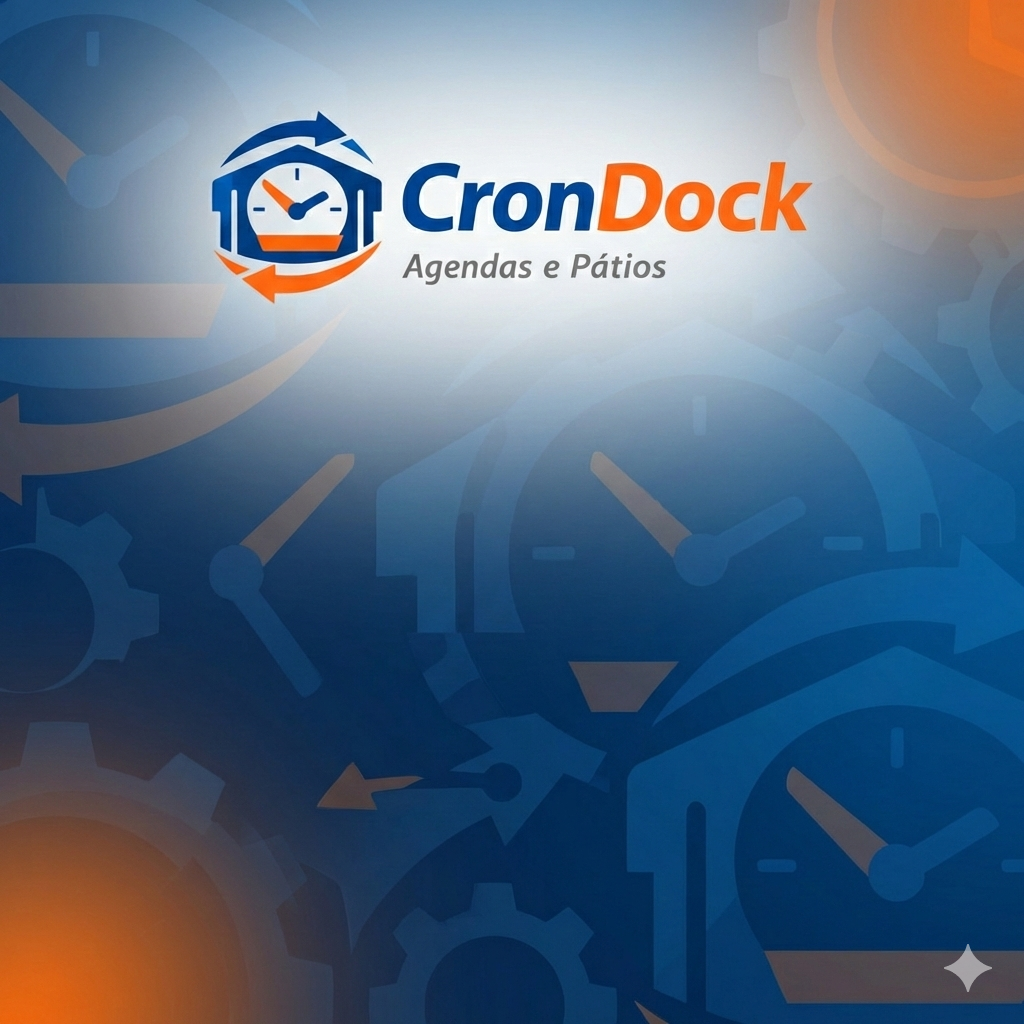
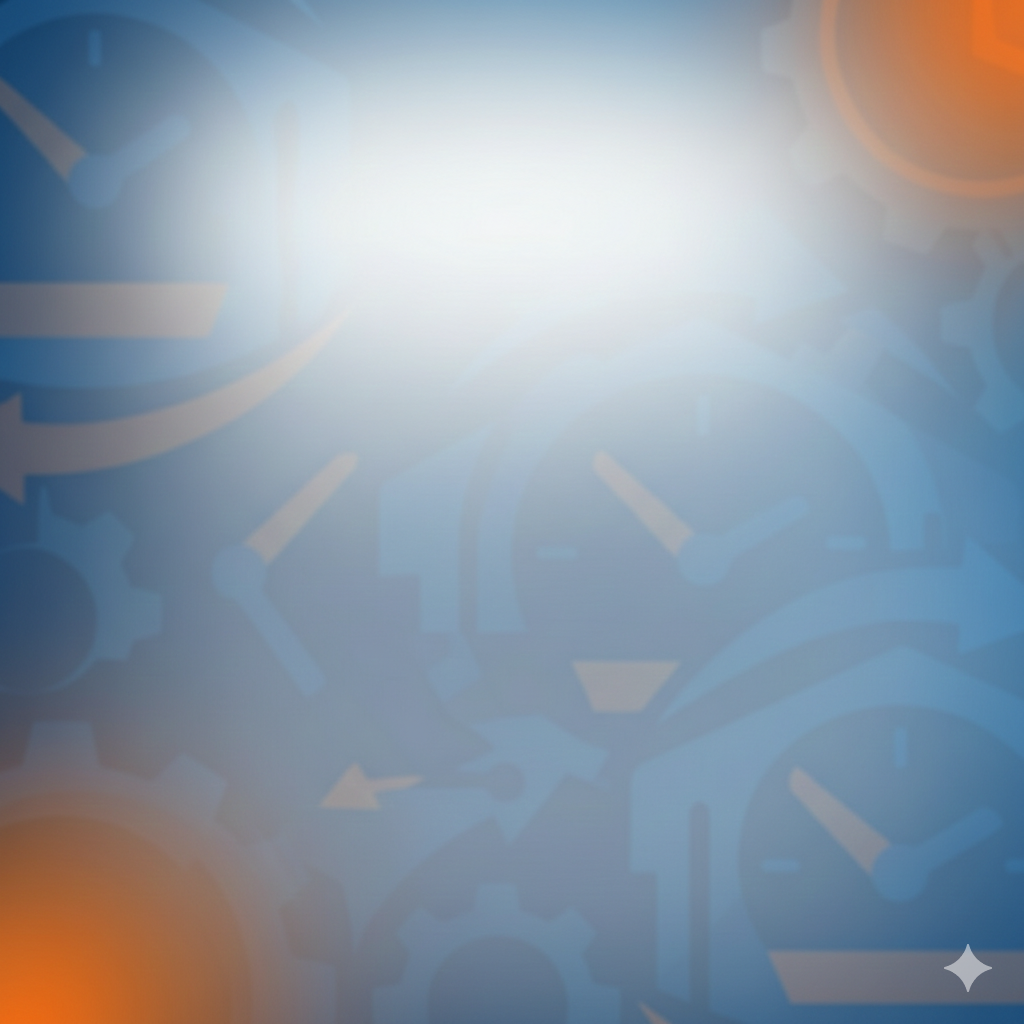
Tela de login

diff --git a/app/(auth)/login/page.tsx b/app/(auth)/login/page.tsx
@@ -2,18 +2,30 @@ import { LoginForm } from "@/components/auth/login-form"
 
 export default function LoginPage() {
   return (
-    <div className="relative flex min-h-dvh w-full items-center justify-center overflow-hidden p-4 sm:p-6">
+    <div className="relative flex min-h-dvh w-full items-start justify-center overflow-hidden p-4 sm:p-6">
       <div
-        className="absolute inset-0 bg-cover bg-top bg-no-repeat"
+        className="absolute inset-0 bg-cover bg-center bg-no-repeat"
         style={{
           backgroundImage: `url('/login.png')`,
         }}
       />
-      <div className="absolute inset-0 bg-gradient-to-b from-slate-900/35 via-slate-900/45 to-slate-950/60" />
+      <div className="absolute inset-0 bg-gradient-to-b from-slate-900/15 via-slate-900/25 to-slate-950/45" />
 
-      <div className="relative z-10 mt-28 w-full max-w-md sm:mt-32 md:mt-36">
-        <div className="rounded-2xl border border-white/20 bg-white/95 p-6 shadow-2xl backdrop-blur-sm sm:p-8">
-          <LoginForm />
+      <div className="relative z-10 flex w-full max-w-4xl flex-col items-center pt-10 sm:pt-12 md:pt-14">
+        <div className="mb-6 text-center sm:mb-8">
+          <h1 className="text-4xl font-extrabold leading-tight sm:text-5xl md:text-6xl drop-shadow-[0_6px_18px_rgba(0,0,0,0.18)]">
+            <span className="text-[#0B4FA8]">Cron</span>
+            <span className="text-[#F97316]">Dock</span>
+          </h1>
+          <p className="mt-1 text-xl font-semibold italic text-slate-600 sm:text-2xl md:text-3xl">
+            Agendas e pátio
+          </p>
+        </div>
+
+        <div className="w-full max-w-md">
+          <div className="rounded-2xl border border-white/25 bg-white/92 p-6 shadow-2xl backdrop-blur-sm sm:p-8">
+            <LoginForm />
+          </div>
         </div>
       </div>
     </div>
